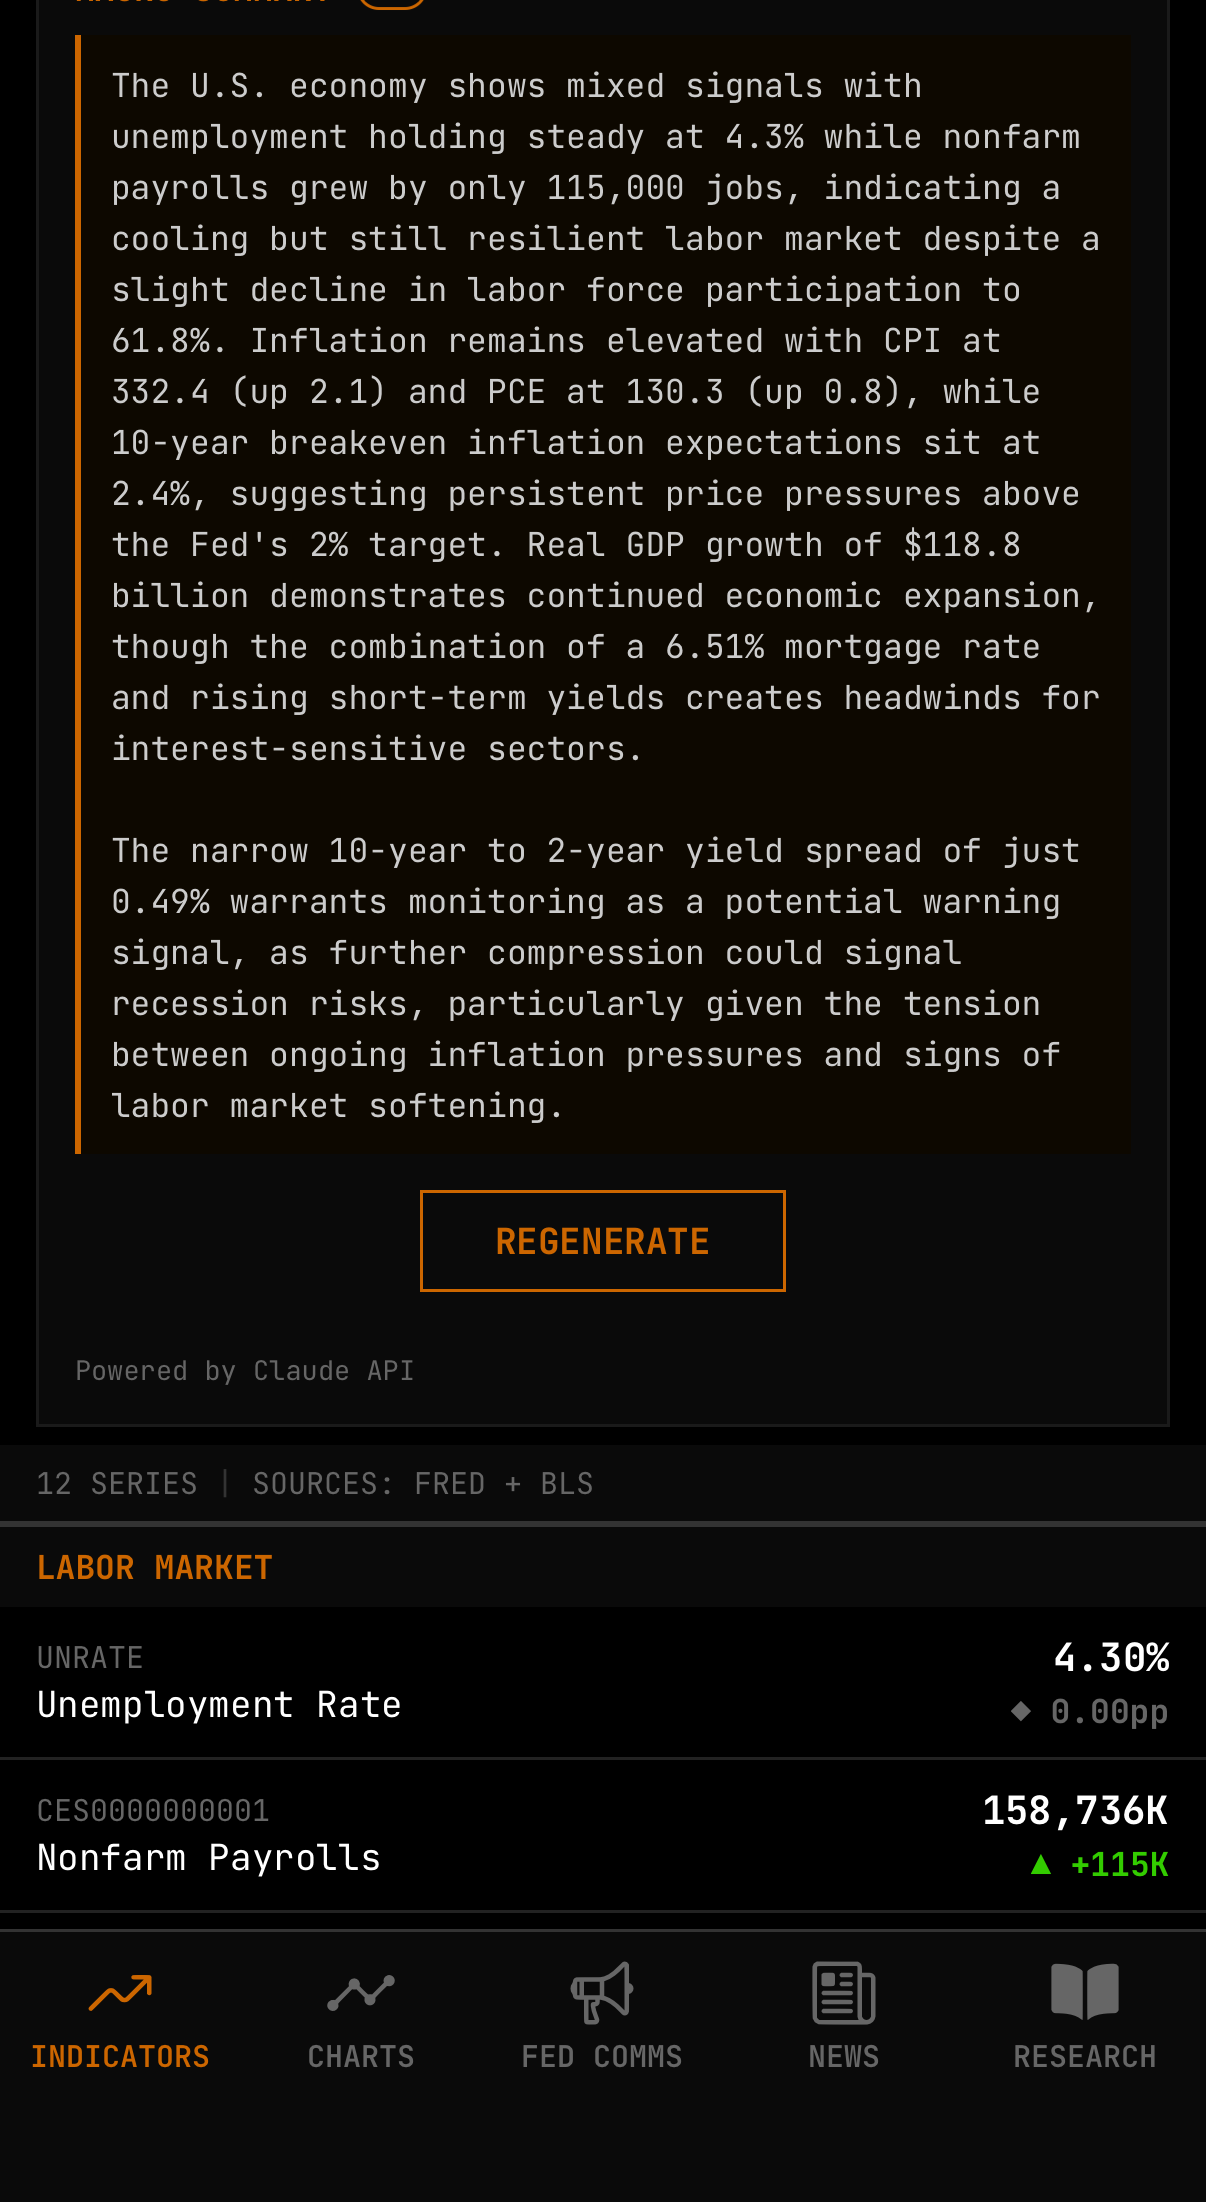
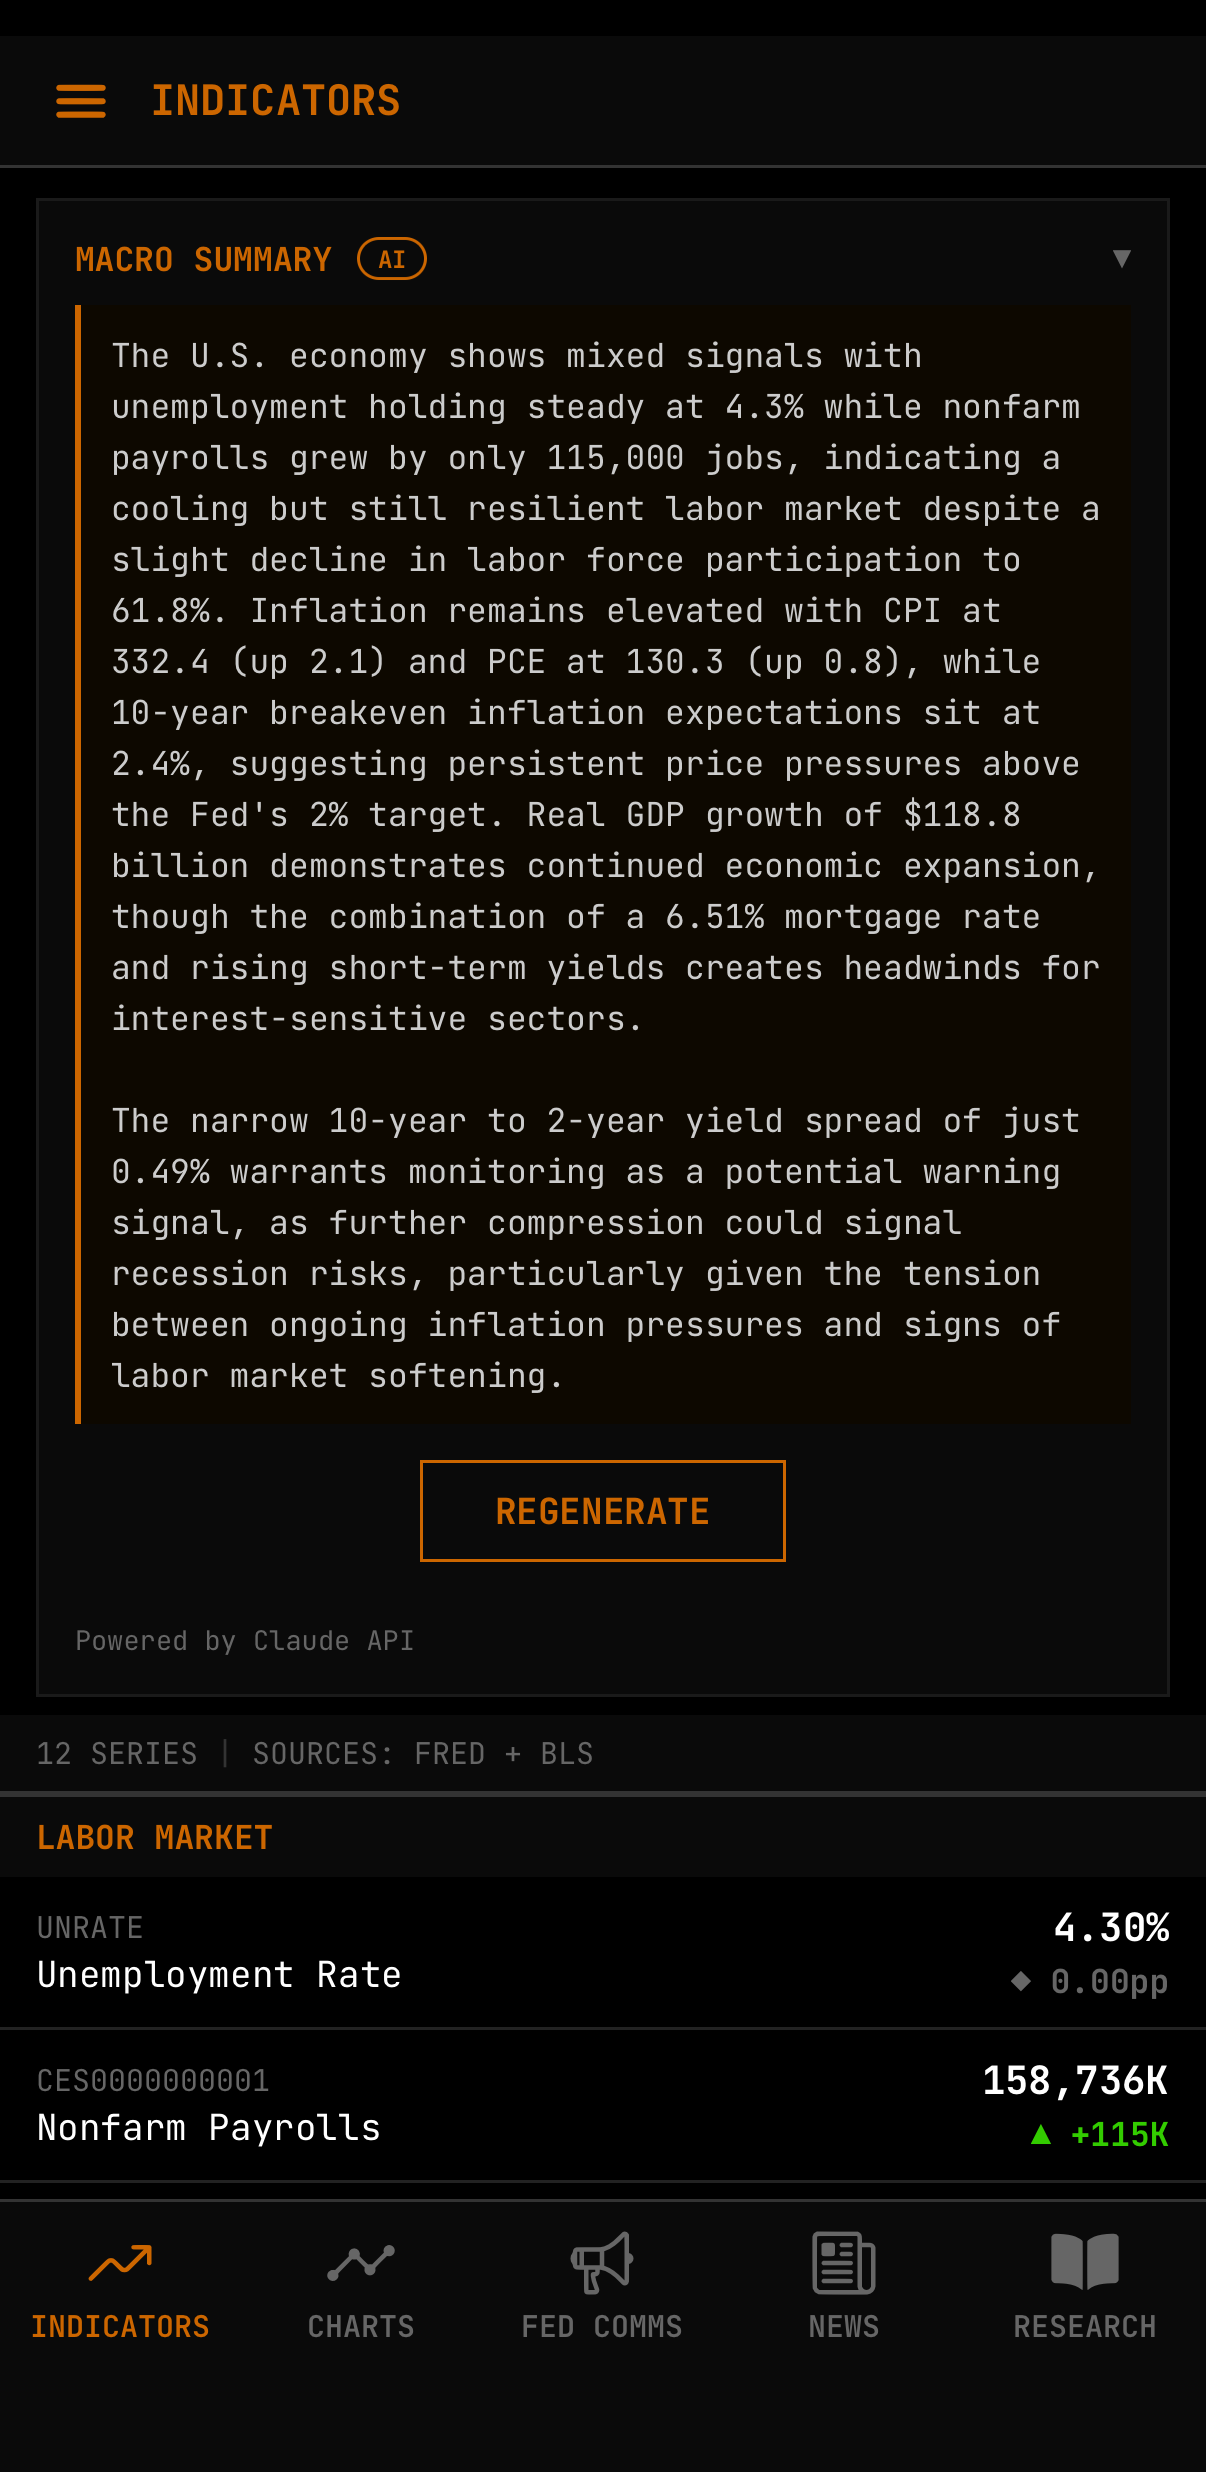
feat: screenshots, demo GIF, chart padding fix, accessibility labels

Changed region(s): [[0.0307, 0.0309, 0.8897, 0.6176], [0.0, 0.6176, 1.0, 0.9573]]

diff --git a/README.md b/README.md
@@ -22,13 +22,13 @@ A mobile market intelligence app built with Expo and React Native. Dense, data-f
 |:---:|:---:|
 | ![News](assets/screenshots/news.png) | ![Daily Spark](assets/screenshots/spark.png) |
 
-| Spark AI | Macro Summary AI |
-|:---:|:---:|
-| ![Spark AI](assets/screenshots/spark-ai.png) | ![Macro Summary AI](assets/screenshots/macro-summary-ai.png) |
-
 | Watchlist | Filings |
 |:---:|:---:|
 | ![Watchlist](assets/screenshots/watchlist.png) | ![Filings](assets/screenshots/filings.png) |
+
+| Macro Summary AI |
+|:---:|
+| ![Macro Summary AI](assets/screenshots/macro-summary-ai.png) |
 
 ## Features
 
